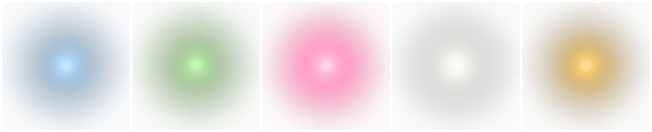
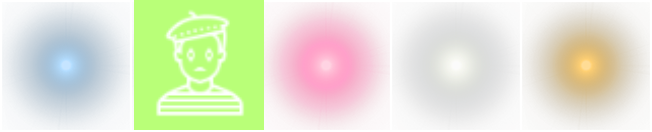
Particle Emitter Change to original images

Changed region(s): [[0.184, 0.0, 0.4294, 1.0]]

diff --git a/app.js b/app.js
@@ -1,4 +1,4 @@
-// @TODO DIAGONAL WIN CHECK (RIGHT TO LEFT) BUG!!!
+// @TODO Particle Emitter for Enemy better Position (not X Pos. of Player)
 
     var platforms;
     var platforms2;
@@ -31,6 +31,7 @@
     var updateFrames = 0;
  
     var particles2;
+    var particles3;
     var config = {
         type: Phaser.AUTO,
         width: 460,
@@ -75,7 +76,6 @@
         this.load.audio('lost', 'assets/audio/lost.mp3');
         this.load.audio('restart', 'assets/audio/restart-riff.mp3');
 
-        this.load.atlas('flares', 'assets/particles/flares.png', 'assets/particles/flares.json');
 
 
 
@@ -111,10 +111,10 @@
         gameField = [
             [0, 0, 0, 0, 0, 0, 0],
             [0, 0, 0, 0, 0, 0, 0],
-            [1, 0, 0, 0, 0, 0, 0],
-            [1, 0, 0, 0, 0, 0, 0],
-            [1, 0, 0, 0, 0, 0, 0],
-            [1, 0, 0, 0, 0, 0, 0]
+            [0, 2, 0, 0, 0, 0, 0],
+            [0, 2, 0, 0, 0, 0, 0],
+            [0, 2, 0, 0, 0, 0, 0],
+            [0, 2, 2, 1, 0, 0, 0]
         ];
         // TEST GAM
         
@@ -211,45 +211,36 @@
 
         this.fieldSelectorImage = this.add.image((markerPositionX*iconsize)+offsetx, (markerPositionY*iconsize)+offsety, 'select');
 
-        particles2 = this.add.particles('flares');
+        particles2 = this.add.particles('apple');
+        particles3 = this.add.particles('fish');
 
      
     
     }
 
     function particleEnd (player){ 
-        var well = particles2.createGravityWell({
-            x: 200,
-            y: 300,
-            power: 3,
-            epsilon: 100,
-            gravity: 50
-        });
-        var emitter;
-
+        
         if (player == playerid){
-            emitter = particles2.createEmitter({
-                frame: [ 'white', 'green' ],
-                x: 250,
-                y: 200,
-                lifespan: 4000,
-                speed: 0.01,
-                scale: { start:2.2, end: 0 },
-                blendMode: 'ADD'
-            });
+
+            var emitter = particles2.createEmitter();
+            var h =getHeigthOfColumn(markerPositionX);
+
+            console.log(getHeigthOfColumn("EMITTER AT " + markerPositionX));
+            emitter.setPosition((markerPositionX+0.5)*iconsize,  (h+2)*iconsize);
+            emitter.setSpeed(300);
+            emitter.setLifespan(2000);
+            emitter.setScale(0.7);
         }
         else
         {
-            emitter = particles2.createEmitter({
-                frame: [ 'white', 'red' ],
-                x: 250,
-                y: 200,
-                lifespan: 4000,
-                speed: 0.01,
-                scale: { start:2.2, end: 0 },
-                blendMode: 'ADD'
-            });
+            var emitter = particles3.createEmitter();
+            var h =getHeigthOfColumn(markerPositionX);
 
+            console.log(getHeigthOfColumn("EMITTER AT " + markerPositionX));
+            emitter.setPosition((markerPositionX+0.5)*iconsize,  (h+2)*iconsize);
+            emitter.setSpeed(300);
+            emitter.setLifespan(2000);
+            emitter.setScale(0.7);
         }    
     }
 
